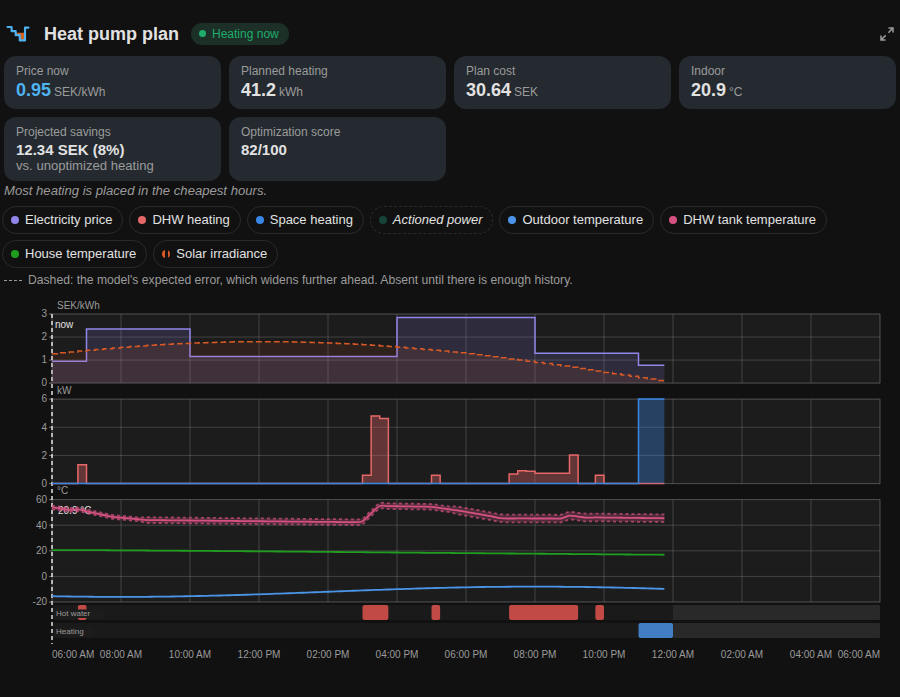
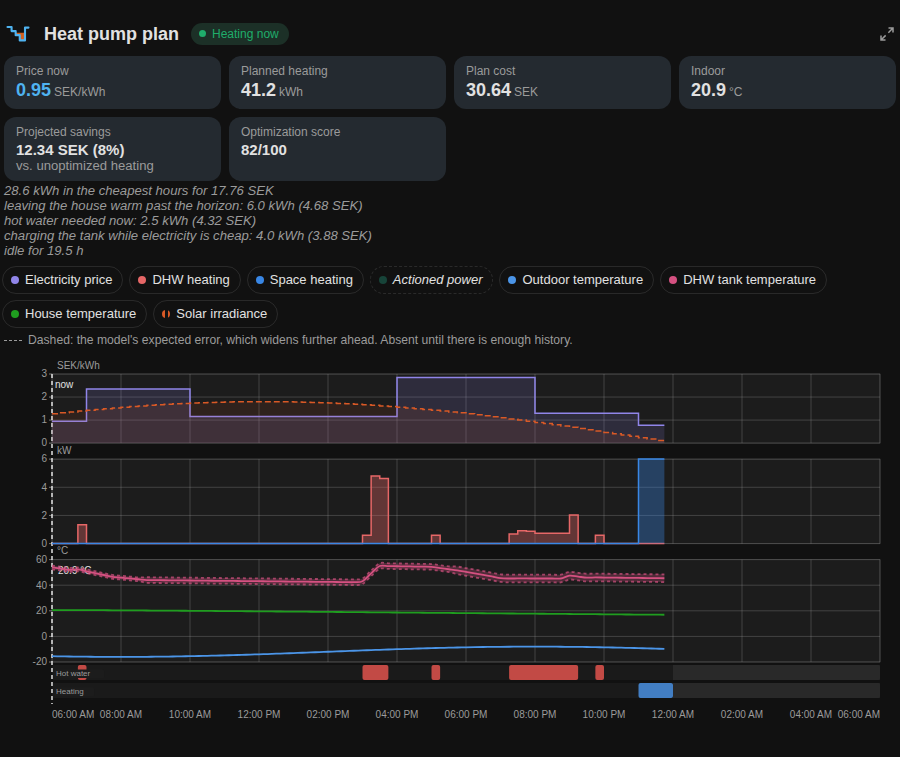
R9-UX-1: regenerate the tile and idle-hover screenshots
tests/card_browser.mjs's page mode (HPO_PAGES_OUT=docs/img/card) took
them; only the pages this change moves are committed (tile: the narrative
lines; plan-why: new), since Chromium raster is not bit-stable and the
untouched pages re-rendered with pixel noise only.

Claude-Session: https://claude.ai/code/session_01GCaL9Z51AQX9LK8WBmtS7L

diff --git a/docs/dashboard-card.md b/docs/dashboard-card.md
@@ -49,7 +49,7 @@ protanopia or tritanopia, and every series reads at 3:1 against its panel.
 
 <picture>
   <source media="(prefers-color-scheme: dark)" srcset="img/card/tile-dark.png">
-  <img alt="The dashboard tile: the dusk mark and title with an Idle status pill, a row of four tiles reading price now, planned heating, plan cost and indoor temperature, the savings and score tiles, the plan chart, and the legend chips with the dashed-line footnote under them" src="img/card/tile-light.png">
+  <img alt="The dashboard tile: the dusk mark and title with an Idle status pill, a row of four tiles reading price now, planned heating, plan cost and indoor temperature, the savings and score tiles, the five lines of the plan narrative, the plan chart, and the legend chips with the dashed-line footnote under them" src="img/card/tile-light.png">
 </picture>
 
 The screenshots on this page are the shipped card, rendered in a headless
